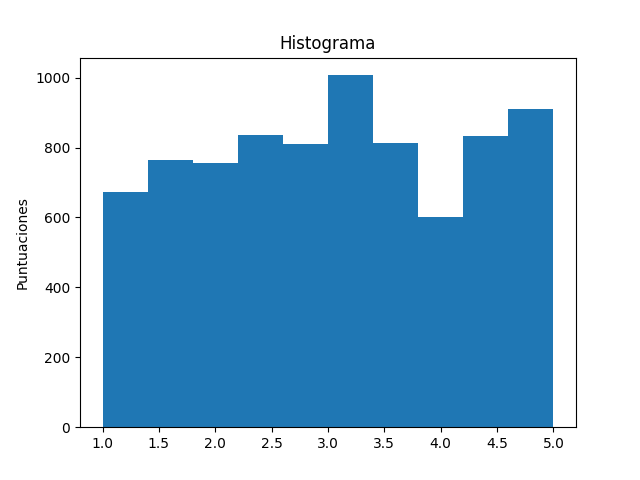
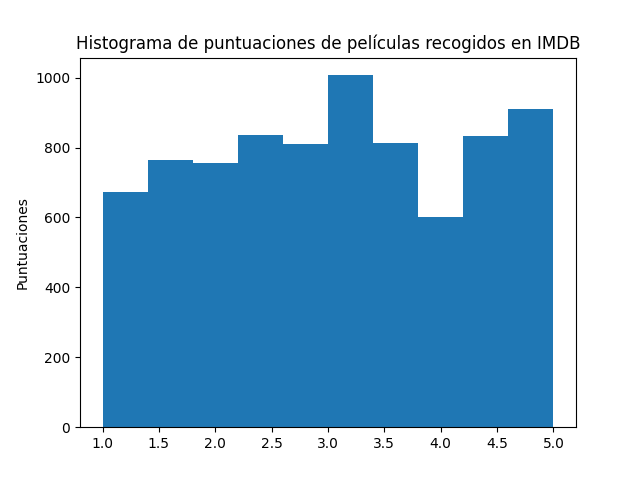
Se incluye el Radar Chart

Changed region(s): [[0.125, 0.0625, 0.9062, 0.125]]

diff --git a/main.py b/main.py
@@ -4,6 +4,7 @@ import matplotlib.pyplot as plt
 import plotly.express as px
 import base64
 
+CONST_URL_DATA = "https://zenodo.org/record/7339445/files/IMDB%20Selection%20Database.csv?download=1"
 CONST_HISTOGRAM_PATH = "docs/histogram.png"
 CONST_RADARCHAT_PATH = "docs/radarchat.png"
 CONST_SPARKLINE_PATH = "docs/sparkline.html"
@@ -21,12 +22,21 @@ def calculate_mean(df, genre):
 
     return sum_value/iterator
 
+def get_score_by_genre(df, genre):
+
+    score_genre = []
+
+    for index, row in df.iterrows():
+        if genre in str(row['genres']):
+            score_genre.append(float(row['score']))
+
+    return score_genre
 
 def generate_histogram(values):
 
     plt.hist(x=values)
     plt.ylabel('Puntuaciones')
-    plt.title('Histograma')
+    plt.title('Histograma de puntuaciones de películas recogidos en IMDB')
     plt.savefig(CONST_HISTOGRAM_PATH)
 
 def generate_radar_chat(values, description_values):
@@ -34,6 +44,7 @@ def generate_radar_chat(values, description_values):
         r=values,
         theta=description_values))
     fig = px.line_polar(data_frame, r='r', theta='theta', line_close=True)
+    fig.show()
     fig.write_image(CONST_RADARCHAT_PATH)
 
 def sparkline(data, figsize=(4, 0.25), **kwags):
@@ -66,20 +77,21 @@ def generate_sparkline(values):
 
 if __name__ == "__main__":
 
-    url = "https://zenodo.org/record/7339445/files/IMDB%20Selection%20Database.csv?download=1"
-
-    dataSet = pd.read_csv(url)
+    dataSet = pd.read_csv(CONST_URL_DATA)
 
     genres_list =[genre.replace("'", "") for genre in set(
         np.concatenate(
         dataSet['genres'].apply(lambda x: x[1:-1].split(', ')).values))]
 
-    genre_means = list()
+    genre_means = []
+    genre_scores = []
 
     for genre in genres_list:
         genre_means.append(calculate_mean(dataSet, genre))
+        genre_scores.append(get_score_by_genre(dataSet, genre))
     
     generate_histogram(dataSet['score'])
     generate_radar_chat(genre_means, genres_list)
-
+    generate_sparkline(genre_scores)
+    
 

diff --git a/docs/index.md b/docs/index.md
@@ -8,11 +8,9 @@
 
 En esta página se procede a mostrar algunos ejemplos de diferentes técnicas para visualizar datos.
 
-
 ## Fuente de datos
 
 Para el presente trabajo académico, se ha procedido a utilizar un data set de evaluaciones de películas por género en IMDB [evaluaciones de películas por género en IMDB](https://zenodo.org/record/7339445/files/IMDB%20Selection%20Database.csv?download=1)
-
 
 ## Histograma
 
@@ -20,3 +18,8 @@ El primer ejemplo que vamos a visualizar, se trata de un histograma. Como los da
 
 ![Histograma](./histogram.png)
 
+## Radar Chart
+
+A continuación, vamos a observar un ejemplo de como sería un "*Radar Chart*", para ello vamos a usar las puntuaciones medias de cada género de película del data set anterior:
+
+![RadarChart](./radarchart.png)
